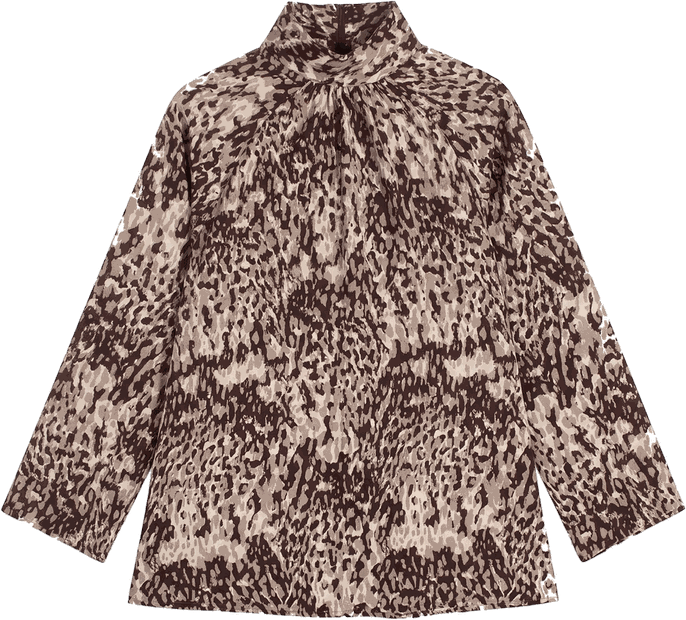
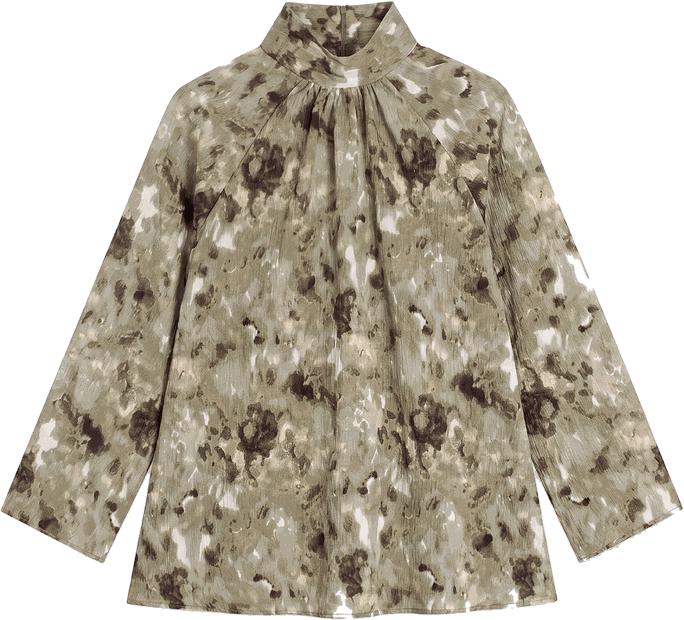
feat(styleit): swap the leopard blouse for the sage printed one
Same slot, same silhouette, different print. Label follows: "Leopard
High-Neck" -> "Printed High-Neck".

This print carries near-white patches, and where one meets the garment's
outline it is both within tolerance of the backdrop AND connected to it, so the
flood took small notches out of the right sleeve and the hem. No tolerance
avoids that — the patches sit closer to the backdrop than the drop shadow does.

Tried a morphological closing to bridge them. Rejected: at 8-14px it did not
reach the notches, and at 24-32px it filled the real gap between sleeve and
body, leaving white wedges — a worse artefact than the one it fixed. At the
138x184 the slot actually renders, on the light page background, the notches
are not visible; they are pale, against a pale ground. Shipped uncut.

684x620, quantised 671K -> 147K.

diff --git a/lib/stylePieces.ts b/lib/stylePieces.ts
@@ -72,8 +72,8 @@ export const STYLE_PIECES: { tops: Piece[]; bottoms: Piece[]; dresses: Piece[] }
     },
     {
       "src": "/style-it/top_10.png",
-      "label": "Leopard High-Neck",
-      "color": "#967e74"
+      "label": "Printed High-Neck",
+      "color": "#9f947a"
     }
   ],
   "bottoms": [
